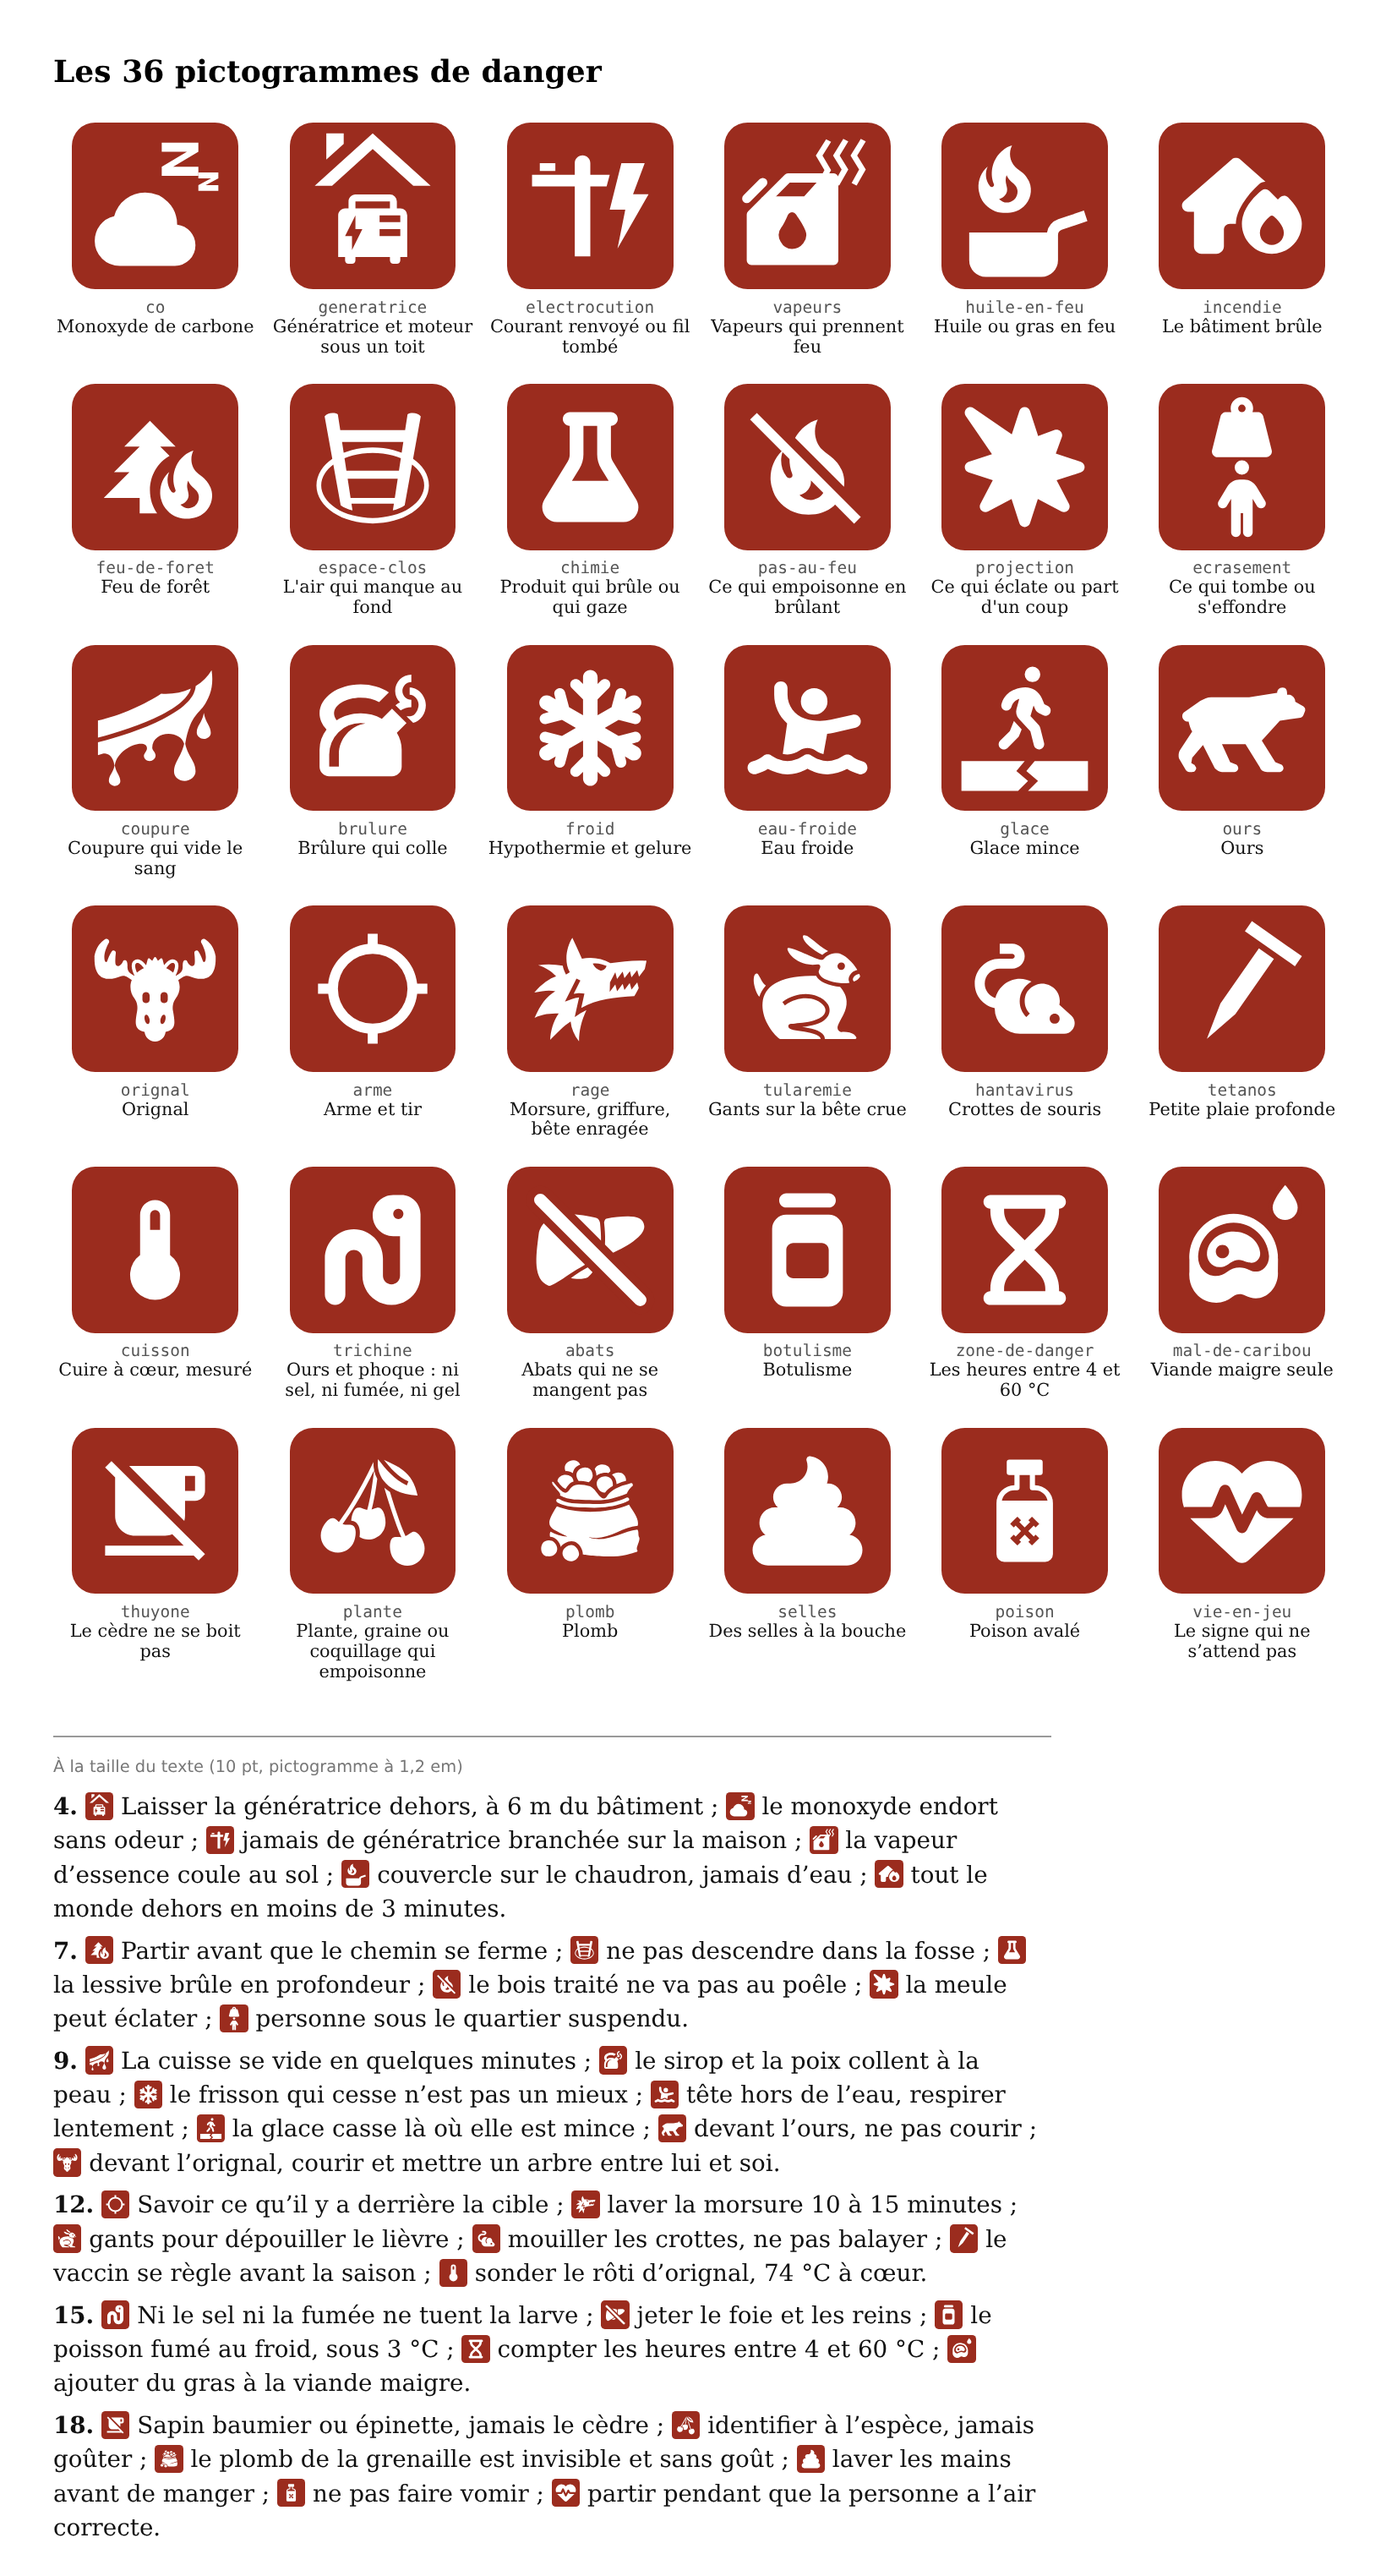
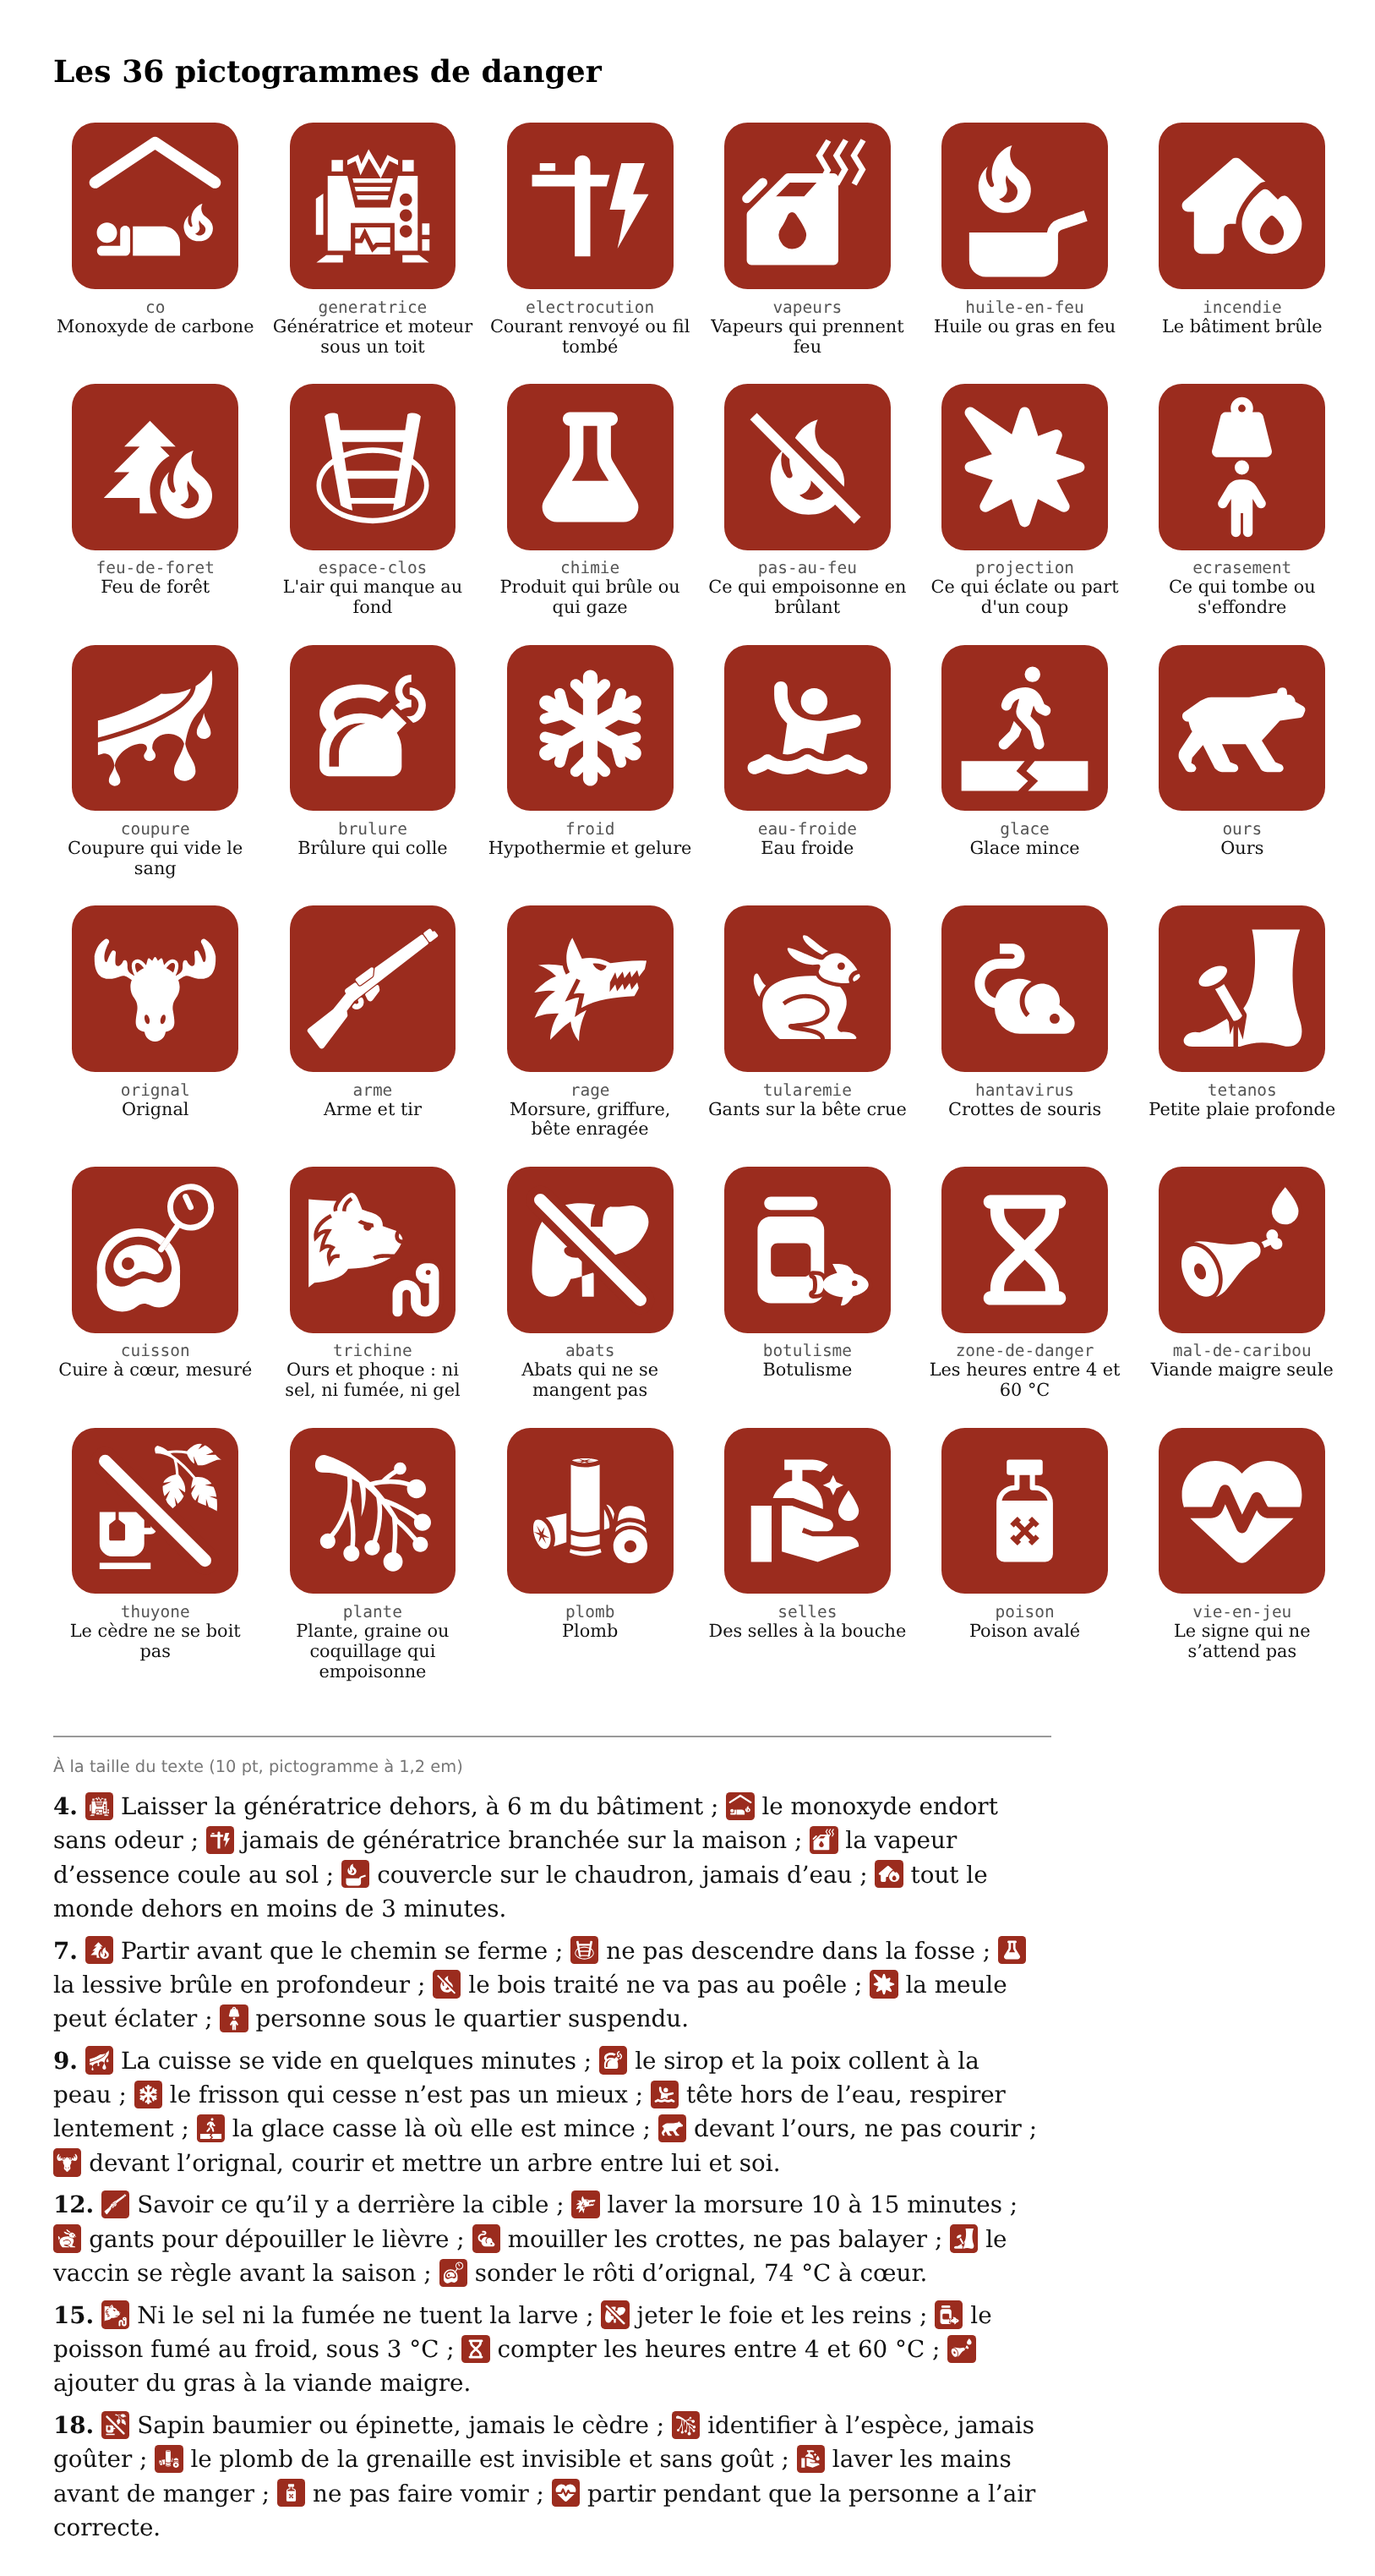
Pictogrammes : le choix de JP appliqué (14 repris, espace clos et pas au feu gardés) ; planche refaite
Claude-Session: https://claude.ai/code/session_014xDY5FLxFXDJt3nYAYznSZ

diff --git a/images/pictos-dangers/construire.py b/images/pictos-dangers/construire.py
@@ -459,7 +459,16 @@ def construire_recette(dossier, ident, r):
     return svg
 
 
+# Le choix de JP sur la planche des propositions (18 octobre 2026, entourés au crayon) : la proposition retenue
+# remplace la recette ; espace-clos et pas-au-feu gardent leur recette d'origine.
+CHOIX = {'co': 'a', 'generatrice': 'a', 'abats': 'a', 'mal-de-caribou': 'a', 'thuyone': 'a', 'plomb': 'a',
+         'tetanos': 'a', 'orignal': 'b', 'trichine': 'b', 'selles': 'a', 'arme': 'b', 'cuisson': 'b',
+         'botulisme': 'a', 'plante': 'a'}
+
+
 def construire(dossier, ident):
+    if ident in CHOIX:
+        return construire_recette(dossier, ident, PROPOSITIONS[ident][CHOIX[ident]])
     return construire_recette(dossier, ident, RECETTES[ident])
 
 

diff --git a/images/pictos-dangers/LISEZMOI.md b/images/pictos-dangers/LISEZMOI.md
@@ -112,3 +112,9 @@ sont des formes simples ; le sujet vient toujours d'un jeu d'icônes.
 | `plante-b` feuille et baies | fa6-solid:leaf | baies tracées | Fonticons | CC BY 4.0 |
 
 Versions ajoutées : fluent-emoji-flat 1.2.6, iconoven 1.2.1.
+
+## Le choix de JP (18 octobre 2026)
+
+Sur la planche des propositions, JP a entouré : co A, generatrice A, abats A, mal-de-caribou A, thuyone A, plomb A,
+tetanos A, orignal B, trichine B, selles A, arme B, cuisson B, botulisme A, plante A ; espace-clos et pas-au-feu
+gardent leur dessin d'origine. Le choix est dans `CHOIX` de `construire.py`.
